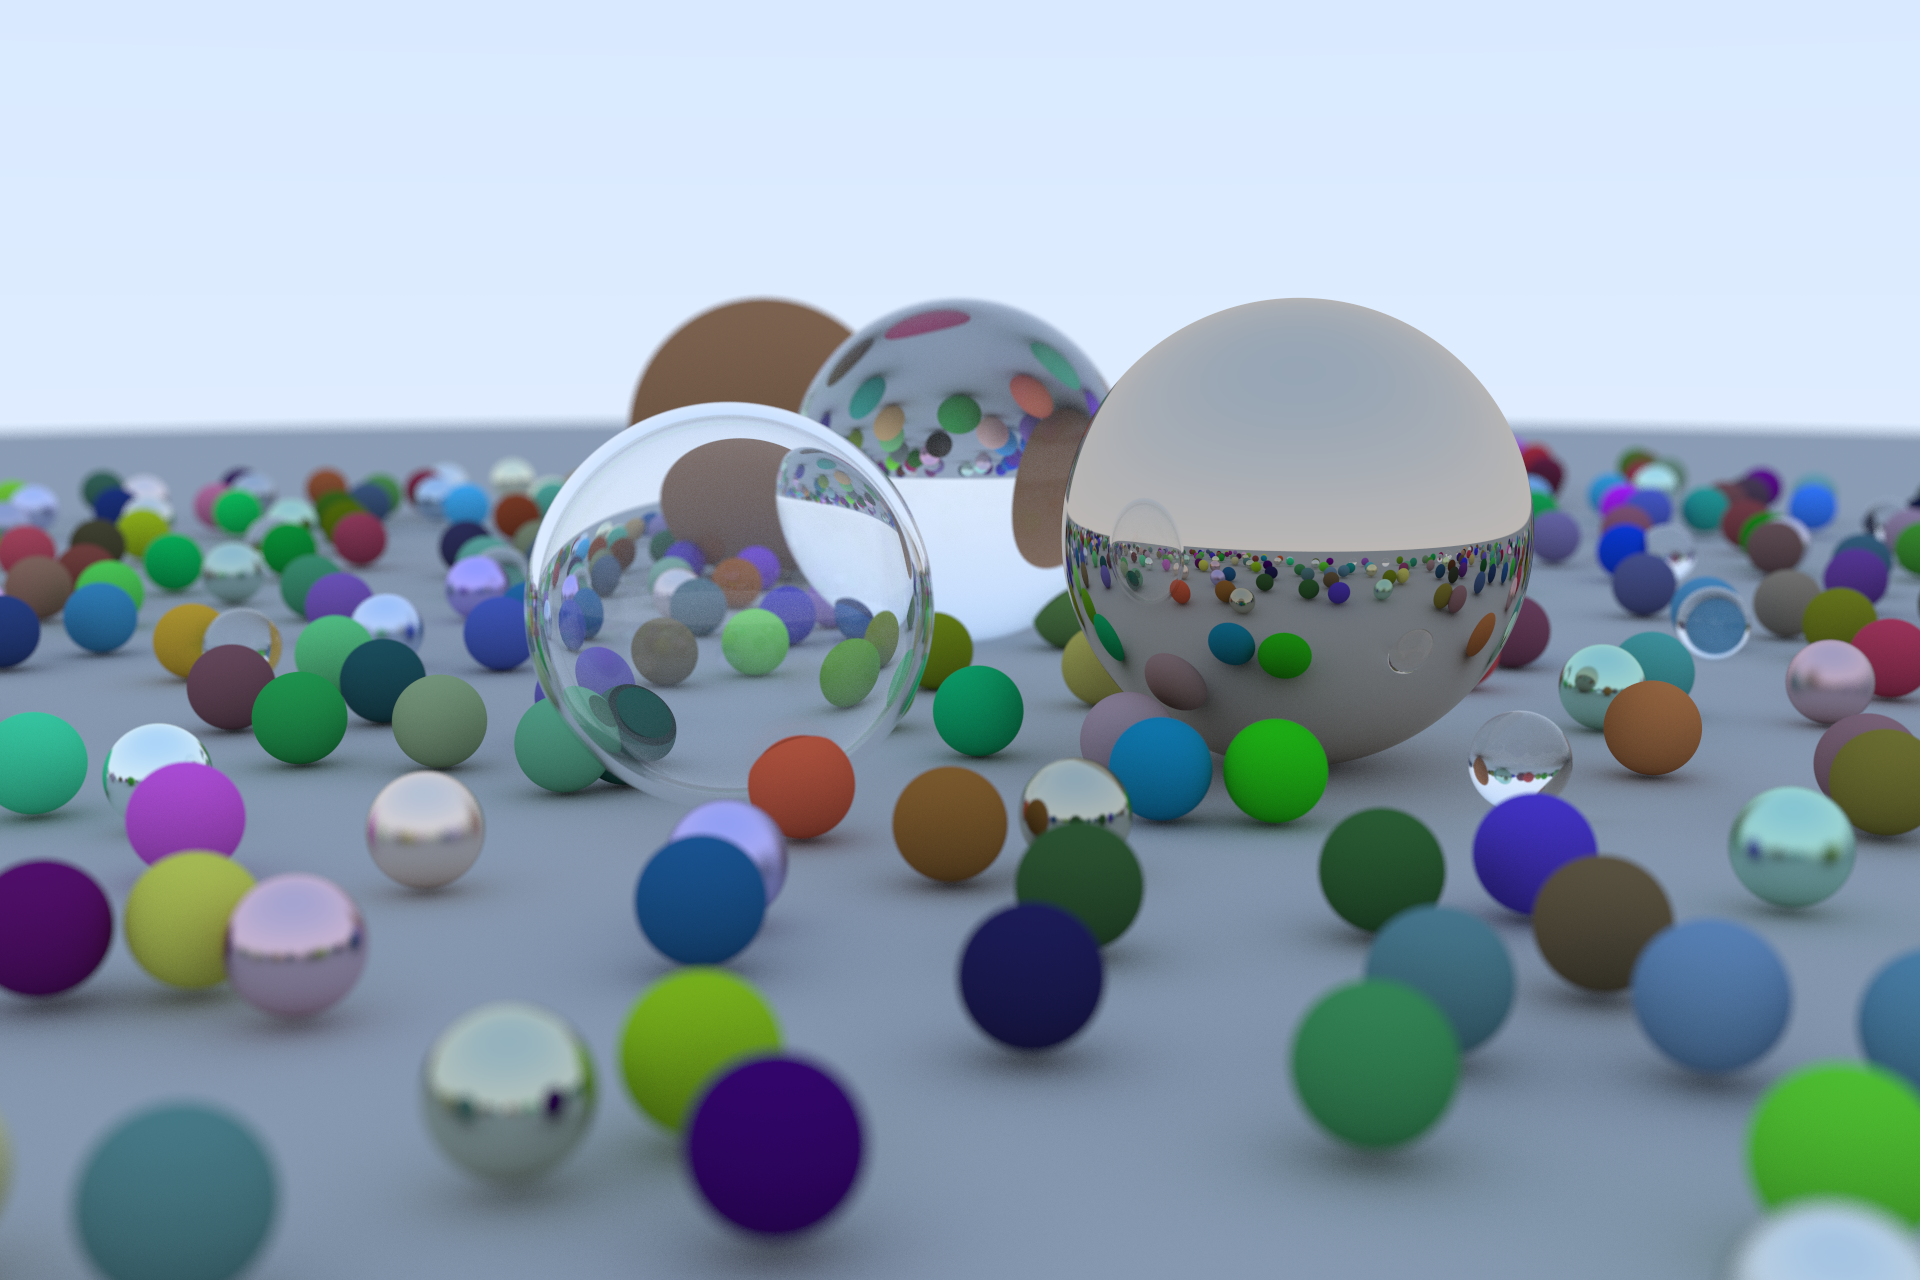
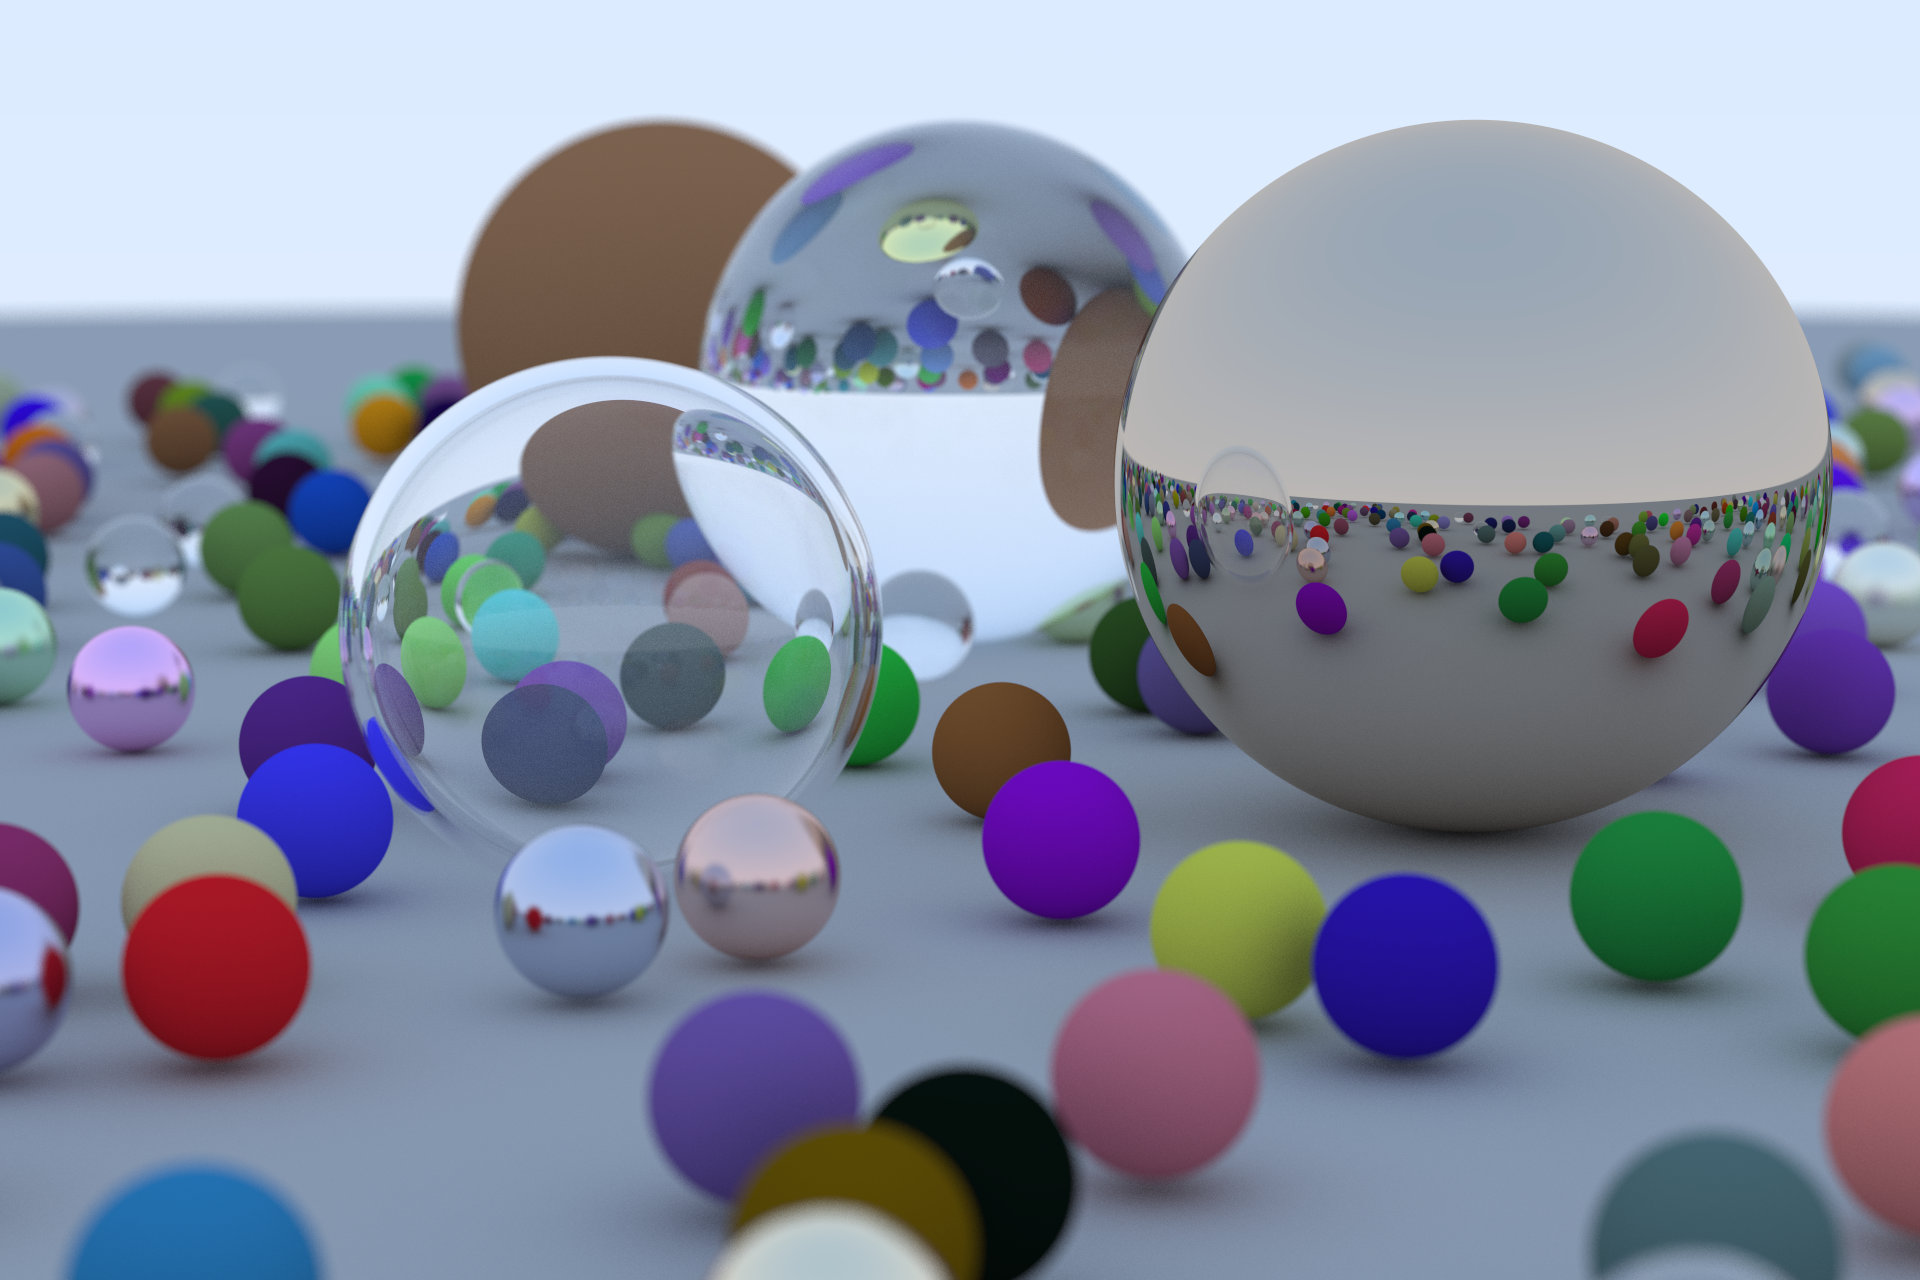
Add new render

diff --git a/src/main.rs b/src/main.rs
@@ -1,22 +1,17 @@
 use std::time::Instant;
 
-use image::{RgbImage};
+use image::RgbImage;
 use rayon::prelude::*;
 
-use objects::camera::Camera;
-
-use crate::data_structs::ray::ray_color;
-use crate::data_structs::vec3::{Color, Point3, Vec3};
-use crate::materials::dielectric::Dielectric;
-use crate::materials::lambertian::Lambertian;
-use crate::materials::Material;
-use crate::materials::metal::Metal;
-use crate::objects::HittableList;
-use crate::objects::sphere::Sphere;
-
-mod materials;
-mod objects;
-mod data_structs;
+use rust_raytracer::data_structs::ray::ray_color;
+use rust_raytracer::data_structs::vec3::{Color, Point3, Vec3};
+use rust_raytracer::materials::dielectric::Dielectric;
+use rust_raytracer::materials::lambertian::Lambertian;
+use rust_raytracer::materials::Material;
+use rust_raytracer::materials::metal::Metal;
+use rust_raytracer::objects::camera::Camera;
+use rust_raytracer::objects::HittableList;
+use rust_raytracer::objects::sphere::Sphere;
 
 // Image. Change these params to get faster, but lower quality renders.
 const ASPECT_RATIO: f64 = 3.0 / 2.0;
@@ -62,8 +57,8 @@ fn random_scene() -> HittableList {
     world.add(Sphere::new(Point3::new(0.0, 1.0, 0.0), 1.0, material_dielectric));
     world.add(Sphere::new(Point3::new(-4.0, 1.0, 0.0), 1.0, material_lambertian));
     world.add(Sphere::new(Point3::new(4.0, 1.0, 0.0), 1.0, material_metal));
-    world.add(Sphere::new(Point3::new(4.0, 0.8, 2.5), 0.8, material_dielectric));
-    world.add(Sphere::new(Point3::new(4.0, 0.8, 2.5), -0.75, material_dielectric));
+    world.add(Sphere::new(Point3::new(4.0, 0.7, 2.5), 0.7, material_dielectric));
+    world.add(Sphere::new(Point3::new(4.0, 0.7, 2.5), -0.65, material_dielectric));
 
     world
 }
@@ -76,7 +71,7 @@ fn main() {
     let look_from = Point3::new(13.0, 2.0, 5.0);
     let look_at = Point3::new(0.0, 0.0, 0.0);
     let up_vector = Vec3::new(0.0, 1.0, 0.0);
-    let field_of_view: f64 = 30.0;
+    let field_of_view: f64 = 20.0;
     let dist_to_focus = 10.0;
     let aperture = 0.1;
 

diff --git a/src/lib.rs b/src/lib.rs
@@ -1,0 +1,3 @@
+pub mod materials;
+pub mod objects;
+pub mod data_structs;

diff --git a/README.md b/README.md
@@ -3,5 +3,4 @@ A simple raytracer based on the [_Ray Tracing in One Weekend_](https://raytracin
  by Peter Shirley, written in Rust. The raytracer uses the`image` crate to generate the image from an buffer
 and `rayon` to add parallelization.
 
-
 ![](renders/hollow_glass.png)
